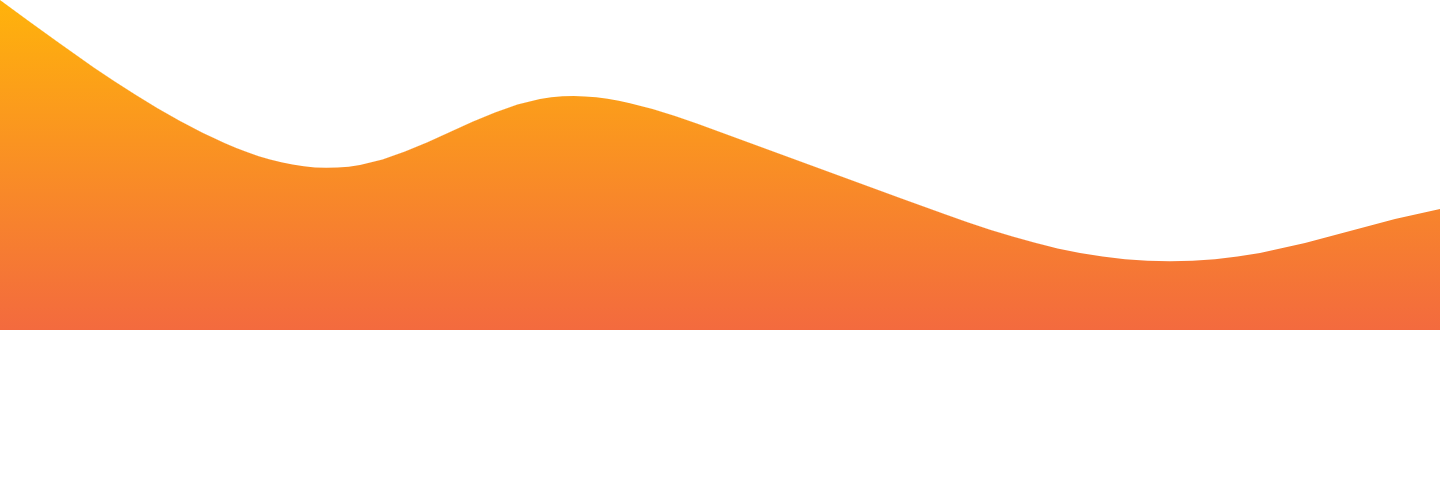
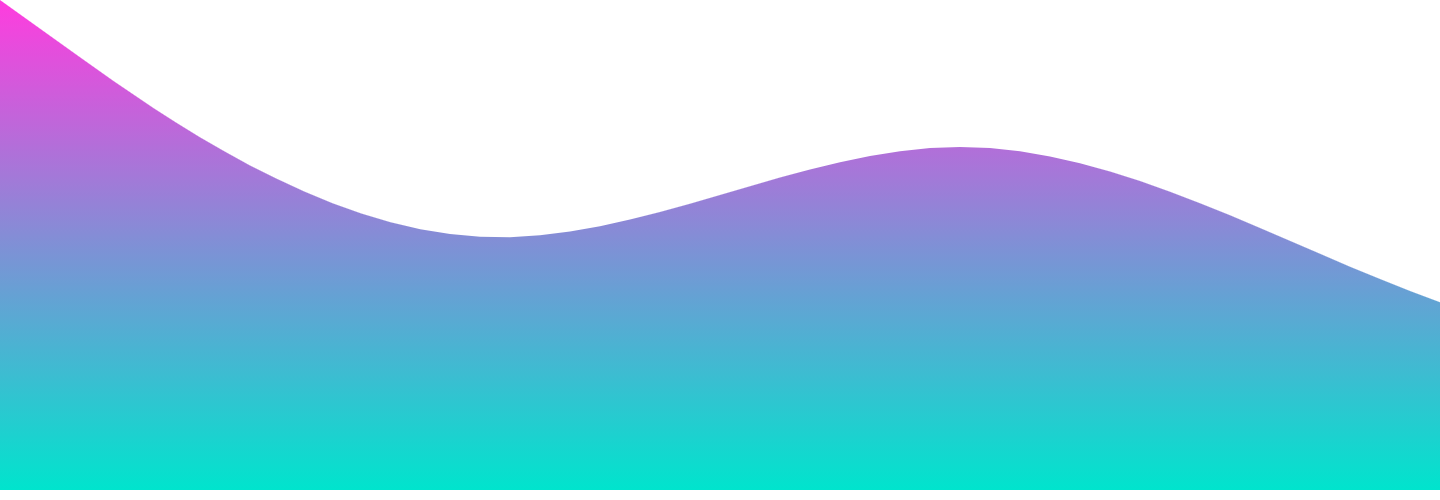
feat: logged user workspaces has been fetched

diff --git a/src/pages/workspaces.js b/src/pages/workspaces.js
@@ -1,5 +1,5 @@
 import {
-  Typography, Box, Toolbar, Grid,
+  Typography, Box, Toolbar, Grid, Hidden,
 } from '@material-ui/core';
 import { motion } from 'framer-motion';
 import { gql, useQuery } from '@apollo/client';
@@ -17,11 +17,24 @@ import { WorkspaceMemberCard } from '../components/WorkspaceMemberCard';
 const WORKSPACES_QUERY = gql`
   query workspaces {
     workspaces{
-      id
-      title
-      createdAt
-      updatedAt
+    id
+    title
+    createdAt
+    users{
+      email
+      firstName
+      profile{
+        imageUrl
+      }
     }
+    owner {
+      profile{
+        id
+        bio
+        imageUrl
+      }
+    }
+  }
 }
 `;
 
@@ -36,37 +49,52 @@ const workspaces = () => {
     toast.error('Não foi possível mostrar seus workspaces');
   }
 
+  console.log(allWorkspaces);
+
   return (
     <>
       <PaperComponent>
+        <Hidden mdDown>
+          <img src="waves.png" alt="wave" className={classes.image} />
+        </Hidden>
         <TopBar />
         <Layout title="Taskway | Workspaces">
           {loading ? (<Loading />) : (
-
             <Box pt={10}>
               <Typography
                 align="center"
                 variant="h5"
                 className={classes.title}
               >
-                Meus Workspaces
+                {allWorkspaces.length ? 'Meus Workspaces' : 'Você ainda não tem workspaces'}
               </Typography>
               <Toolbar />
               <GridComponent>
-                {allWorkspaces.map((workspace) => (
-                  <Grid
-                    item
-                    align="center"
-                    xs={12}
-                    sm={6}
-                    md={6}
-                    lg={4}
-                    xl={4}
-                    key={workspace.id}
-                  >
-                    <WorkspaceCard workspace={workspace} />
+                {allWorkspaces.length ? (
+                  allWorkspaces.map((workspace) => (
+                    <Grid
+                      item
+                      align="center"
+                      xs={12}
+                      sm={6}
+                      md={6}
+                      lg={4}
+                      xl={4}
+                      key={workspace.id}
+                    >
+                      <WorkspaceCard workspace={workspace} />
+                    </Grid>
+                  ))
+
+                ) : (
+                  <Grid item xs={12} sm={12} md={6} lg={6} xl={6}>
+                    <img
+                      src="noWorkspace.svg"
+                      alt="Você não tem workspaces"
+                      className={classes.svg}
+                    />
                   </Grid>
-                ))}
+                )}
               </GridComponent>
               <Toolbar />
               <Typography
@@ -74,7 +102,7 @@ const workspaces = () => {
                 variant="h5"
                 className={classes.title}
               >
-                Membro em
+                {allWorkspaces.length ? 'Membro em' : 'Você ainda não é membro em nenhum workspace'}
               </Typography>
               <Toolbar />
               <GridComponent>

diff --git a/src/components/WorkspaceCard/index.js b/src/components/WorkspaceCard/index.js
@@ -21,10 +21,12 @@ export const WorkspaceCard = ({ workspace }) => {
     <Card className={classes.card}>
       <CardHeader
         avatar={(
-          <Avatar aria-label="recipe" className={classes.avatar}>
-            U
-          </Avatar>
-                  )}
+          <Avatar
+            aria-label="recipe"
+            className={classes.avatar}
+            src={workspace.owner.profile.imageUrl ? workspace.owner.profile.imageUrl : ''}
+          />
+        )}
         action={(
           <IconButton
             aria-label="settings"
@@ -39,11 +41,20 @@ export const WorkspaceCard = ({ workspace }) => {
       />
       <CardContent>
         <Box display="flex" justifyContent="center">
-          <AvatarGroup max={5}>
-            <Avatar>A</Avatar>
-            <Avatar>B</Avatar>
-            <Avatar>C</Avatar>
-          </AvatarGroup>
+          {!workspace.users.length ? (
+            <Typography variant="h6" className={classes.member}>
+              Nenhum membro
+            </Typography>
+          ) : (
+
+            <AvatarGroup max={5}>
+              {workspace.users.map((user) => (
+                <Avatar src={user.profile.imageUrl ? user.profile.imageUrl
+                  : ''}
+                />
+              ))}
+            </AvatarGroup>
+          )}
         </Box>
       </CardContent>
       <Divider />

diff --git a/src/styles/workspace/index.js b/src/styles/workspace/index.js
@@ -4,10 +4,26 @@ const useStyles = makeStyles((theme) => ({
   title: {
     textTransform: 'uppercase',
     fontWeight: 500,
-    color: theme.palette.secondary.dark,
+    color: theme.palette.secondary.light,
   },
   card: {
     backgroundColor: theme.palette.secondary.main,
+  },
+  image: {
+    position: 'absolute',
+    backgroundPosition: 'center',
+    backgroundRepeat: 'no-repeat',
+    backgroundSize: 'cover',
+    height: '100%',
+    width: '100vw',
+    zIndex: -1,
+  },
+  svg: {
+    maxWidth: '60%',
+  },
+  subtitle: {
+    paddingTop: theme.spacing(2),
+    textTransform: 'uppercase',
   },
 }));
 

diff --git a/src/components/WorkspaceCard/styles.js b/src/components/WorkspaceCard/styles.js
@@ -13,6 +13,14 @@ const useStyles = makeStyles((theme) => ({
   card: {
     backgroundColor: theme.palette.secondary.main,
   },
+  cardHeader: {
+    minHeight: 150,
+  },
+  member: {
+    color: theme.palette.secondary.dark,
+    fontWeight: 400,
+    paddingBottom: theme.spacing(1),
+  },
 }));
 
 export default useStyles;

diff --git a/src/components/PaperComponent/styles.js b/src/components/PaperComponent/styles.js
@@ -4,6 +4,9 @@ const useStyles = makeStyles((theme) => ({
   paperRoot: {
     background: theme.palette.primary.light,
     minHeight: '100vh',
+    zIndex: -2,
+    position: 'absolute',
+    width: '100%',
   },
 }));
 
